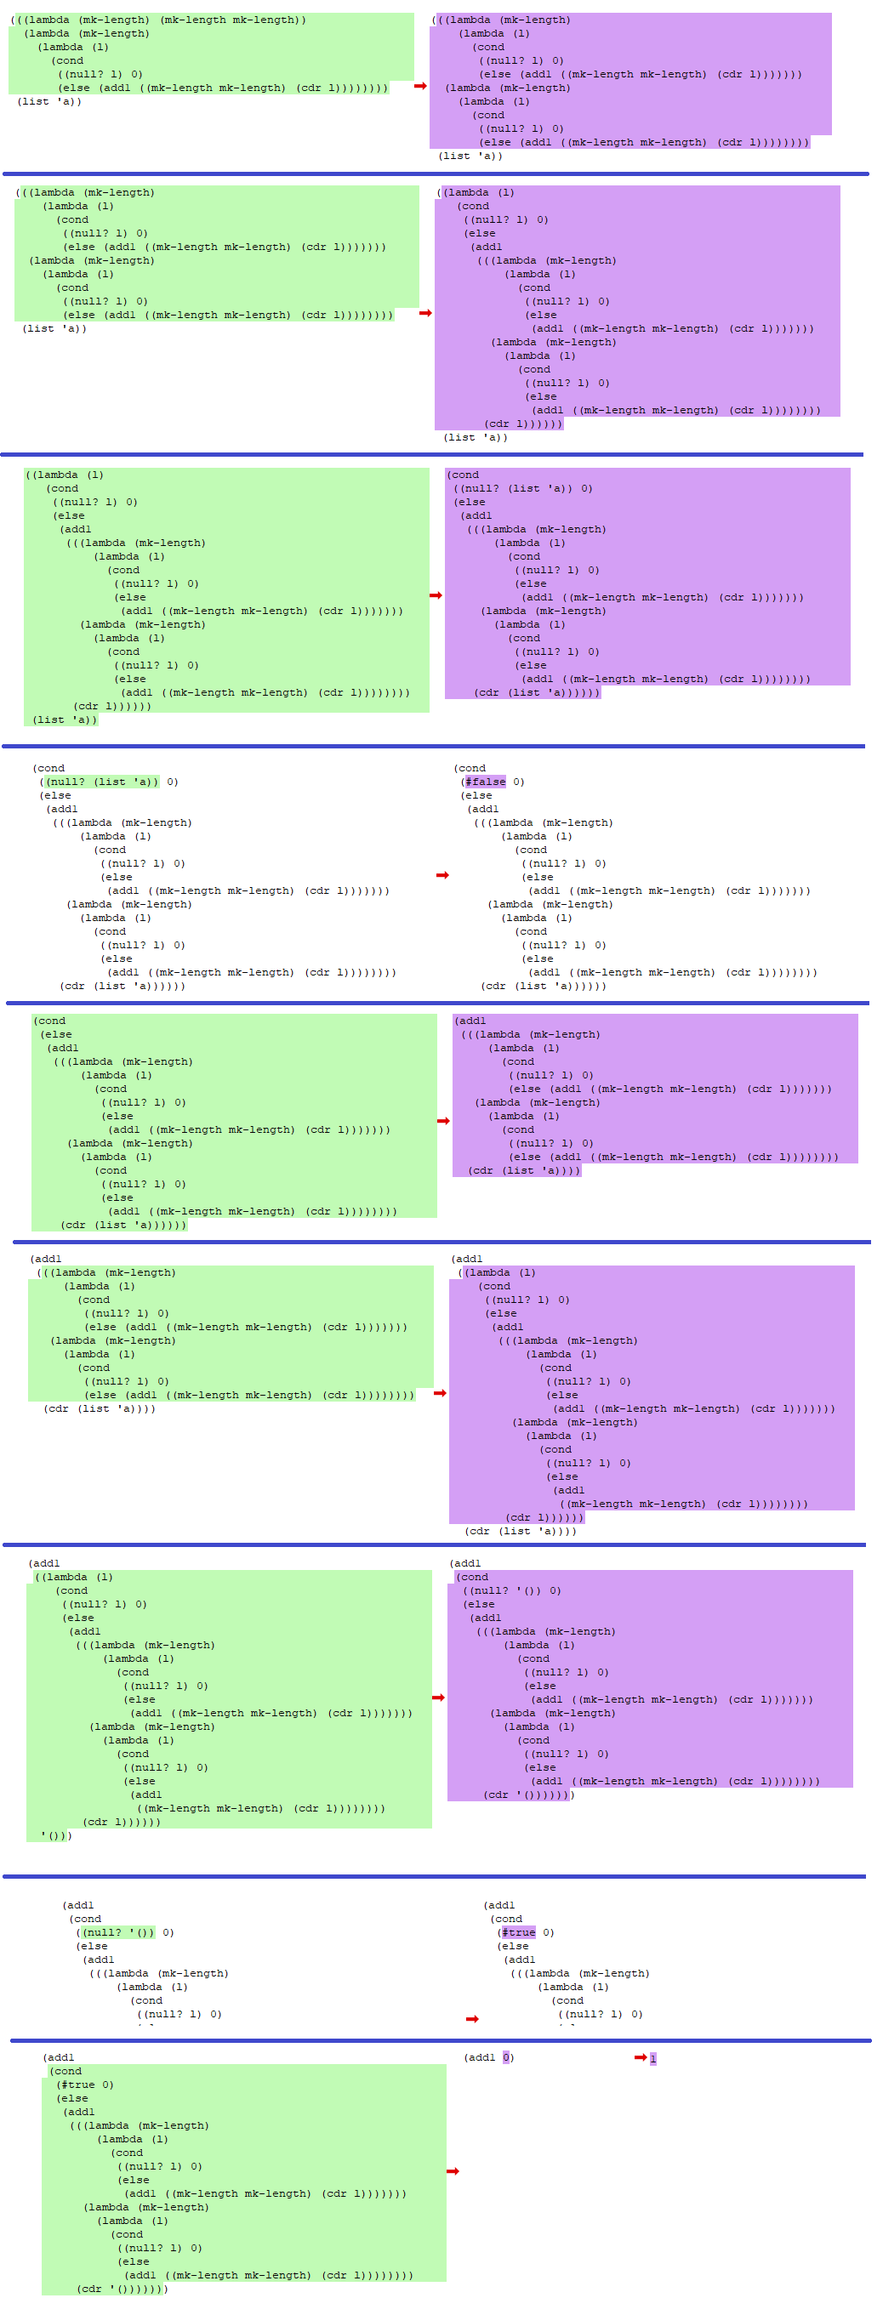
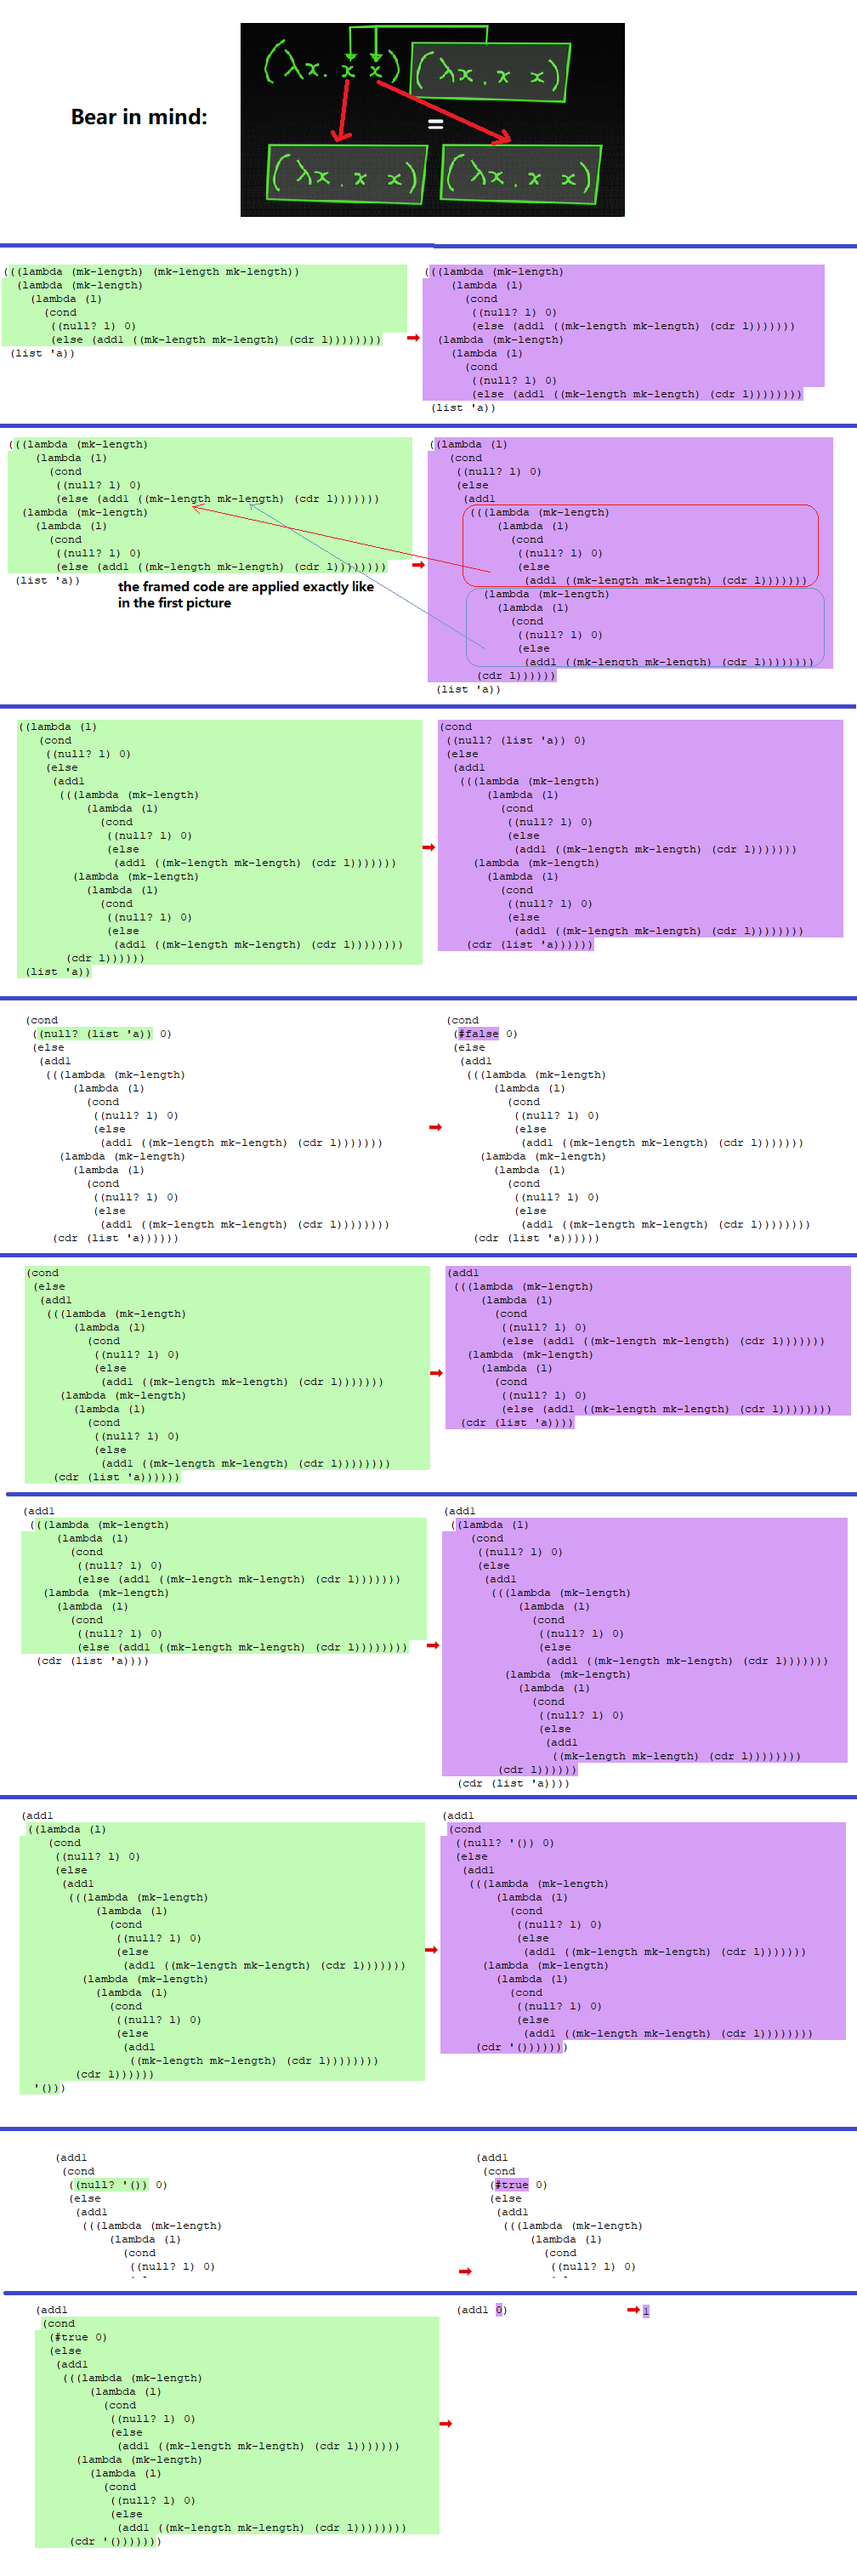
rebuilding site Sun, Feb 23, 2020 11:20:54 PM

diff --git a/content/top/about.md b/content/top/about.md
@@ -3,21 +3,22 @@
 
 Hello beautiful people! Thanks for being interested in finding out about me :).
 
-I am a future poet, next generation Oscar Wilde (or Noël Coward) and comedian with healing power. (Well, we all have dreams right?). But somehow, I am currently doing Ph.D. research in the area of statistical/machine learning and econometrics.  
+I am a future poet, next generation Oscar Wilde (or Noël Coward maybe) and comedian with healing power and so on (well, we all have dreams right?). But somehow, I am currently doing Ph.D. research in the area of statistical/machine learning and econometrics.  
 
 -----
-About my research (referring to some keywords I did not expect when I was a kid):
+This is mainly a tech blog, so it going to be all about my research (referring to some keywords I did not expect when I was a kid):
 
-The key challenge in any complex system learning is **problem identification** , which comes down to various types of causality inference and optimization work. I am particularly experienced in establishing theoretical statistical models and evaluating empirical econometric studies. My years of school equips me to design natural experiments and observational study with features such as time series, stochastic, probabilistic based models, etc.
+I have full background of econ/fin and statistics, both up to master's degrees. These two subjects overlap a lot in learning complex systems, such as financial market, option pricing, or macroeconomic. The key challenge in any complex system learning is **problem identification** , which comes down to various types of causality inference and optimization work. I am particularly experienced in building theoretical statistical models and evaluating empirical econometric studies. Years of school has equipped me to design natural experiments and observational study with applying time series, stochastic, probabilistic based models, etc.
+
 #### Interests in Statistics
 As a statistical researcher, I'm into Bayesian learning and variable selection in classification issues. I used to explore the re-parameterized Bayesian model, such as spike & slab prior. These unusual model comes with good mathematical properties but difficult to evaluate analytically. To conquer the computational limitation, I used MCMC with the Metropolis-Hastings process to recover the asymptotic probability model. In this process, I began to develop interests in high-performance computation. 
 
 #### Interests in Econometrics
 As an economic researcher, my speciality lies in quantitative corporate finance study (a sub-area of financial economics). Based on this interest, I am currently undertaking the study of evaluation algorithms to help make risk-controlled and efficient investment decisions, in medium to big size data. Following this, I hope to establish financial indicators/systems to detect and, most importantly, predict investment/risk alert signals in daily information processing activities, which potentially can be beneficial to government sectors, the central bank, corporate governors, researchers, and other stakeholders.
 
-#### Interests in semantic unit based programming
-My daily text-based workflow is built on Emacs, which requires certain knowledge of Emacs-lisp hacking. The distinct features of semantic unit based programming got me interested.
+#### Interests in bottom-up OS configuration. 
 
+My daily research workflow has a high requirement for working environment. An academic work involves several things at the same time: Latex writing, multi-language programming running, syntax highlighting, embedded slides making. So my workflow is built on Emacs, which requires certain knowledge of Emacs-lisp hacking and functional programming. A highly customerized operating system with some specialized hardware has been my friend all this time.
 -----
 
 #### Publication as Data Scientist

diff --git a/content/post/The-little-schemer-note-3-3.md b/content/post/The-little-schemer-note-3-3.md
@@ -1,6 +1,6 @@
 +++
 title = "The Little Schemer speedy referring note (3/3)"
-lastmod = 2020-02-19T23:07:50+00:00
+lastmod = 2020-02-23T23:19:28+00:00
 categories = ["TECH"]
 draft = false
 image = "img/111.jpg"
@@ -266,10 +266,15 @@ carefully. The difference between defining and calling is that calling a functio
     arguments-for-f)
 {{< /highlight >}}
 
+A more general case of calling with defining in lambda expression is called the
+omega combinator. It has shape in the below picture and more information can be
+found at [Lambda calculus - Wikipedia](https://en.wikipedia.org/wiki/Lambda%5Fcalculus#Standard%5Fterms)
+![](/img/little2.png)
+
 As you read more, you will understand
 the below example is carefully selected: it achieves a simple job at a time; applying
 it on itself is achieving a simple job on a achieved job; when repeating calling itself,
-it can achieve a almost infinite job loop.
+it can achieve a almost infinite loop.
 
 In addition, the function change `(length)` a little by calling `(eternity)`
 instead of `(length)` in its recursion. This makes the function only works on **null input**, since it will terminate in the `(null?)` predicate without calling the partial
@@ -507,10 +512,35 @@ The exercise in page 166 will help you on how it works. The instruction can be
 found in the answer of `soegaard` :
 [scheme - Y combinator discussion in "The Little Schemer" - Stack Overflow](https://stackoverflow.com/questions/10499514/y-combinator-discussion-in-the-little-schemer?noredirect=1&lq=1)
 
-When running it with stepper in DrRacket, there are 13 steps for a case when `l is
-(' a)`, I only demonstrate major steps here
+When running it with stepper in DrRacket, there are 27 steps for a case `(l is
+(' a b c))`, I only demonstrate 4 steps here (press ctrl and + to see the enlarged image)
+
 ![](/img/little.png)
+You can try to play with longer list, such as this:
 
 {{< highlight scheme >}}
-
+(((lambda (mk-length)
+    (mk-length mk-length))
+  (lambda (mk-length)
+    (lambda (l)
+      (cond
+        ((null? l) 0 )
+        (else (add1
+               ((mk-length mk-length)
+                (cdr l))))))))
+ '(a b c))
 {{< /highlight >}}
+
+You would realize that this is just more recurrences of that "bear in mind"
+picture, aka calling `(mk-length mk-length)` one more time before applying a
+shorter candidate list, until the `(cdr l)` runs out of atom. In the end, the null
+list becomes the termination condition, without triggering it, we will go stack overflow by calling
+`(mk-length mk-length)` infinitely.
+
+After undertanding the above code, the author finanlly gets to reform this
+procedure in to Y combinator, a function without defining name and so pithy that
+can be called repetitively by itself as many times as we want.
+
+If you find it confusing, read this preview of omega combinator in the first
+answer of this post:[scheme - Y combinator discussion in "The Little Schemer" -
+Stack Overflow](https://stackoverflow.com/questions/10499514/y-combinator-discussion-in-the-little-schemer/11864862#11864862)

diff --git a/content/post/The-little-schemer-note-2-3.md b/content/post/The-little-schemer-note-2-3.md
@@ -1,7 +1,7 @@
 +++
 title = "The Little Schemer speedy referring note (2/3)"
 date = 2019-12-23T01:35:00+00:00
-lastmod = 2020-02-19T23:07:50+00:00
+lastmod = 2020-02-23T23:19:28+00:00
 categories = ["TECH"]
 draft = false
 image = "img/111.jpg"
@@ -230,19 +230,19 @@ In the previous chapters, we've seen over and over that a function takes **list
 or atom** as input and returns **list or atom** as output. In this chapter, we
 will be learning how to write a function that takes input and returns
 **functions**. Technically, a digit/atom is a function too, which takes itself as
-argument and returns itself. Taking an naive example, the function1 is a
+argument and returns itself. Taking an naive example, the `(eq?-f)` is a
 functional projection which takes `a` (a constant function) as argument and
-returns function2 (equivelent in concept) as output. It's called currying.
+returns `(eq?-a)` (equivelent in concept) as output. It's called currying.
 
 {{< highlight scheme >}}
-(define function1
-(lambda (a)
- lambda (x)
-  (eq? x a)))
+(define eq?-f)
+ (lambda (a)
+   (lambda (x)
+    (eq? x a))))
 
-(define function2
-(lambda (x)
- (eq? x a))
+(define eq?-a
+ (lambda (x)
+  (eq? x a))
 {{< /highlight >}}
 
 But the functional projection is sometimes more confusing when there are
@@ -344,8 +344,10 @@ rewritten as:
 (define subst (insert-g seqS))
 {{< /highlight >}}
 
-The `(rember)` function can be abstracted by `(insert-g)` too, but using variant
-function requires extra tweak, since the `(rember)` doesn't use arguments _new_:
+The `(rember)` function can be achieved by `(insert-g)` too, but it requires
+extra tweak, since the `(rember)` doesn't use arguments _new_. The `(seqrem)`
+function replaces the old seq's job: it neither cons on left nor right, but only
+retains the third argument, aka `(cdr l)`.
 
 {{< highlight scheme >}}
 ;invariant function with seqrem as place holder
@@ -353,11 +355,19 @@ function requires extra tweak, since the `(rember)` doesn't use arguments _new_:
   (lambda (a l)
     ((insert-g seqrem) #f a l)))
 
-;variant function
+(define insert-g
+  (lambda (seq)
+      (lambda (new old l)
+        (cond
+          ((null? l) '())
+          ((eq? (car l) old)
+           (seq new old (cdr l)))
+          (else
+            (cons (car l) ((insert-g seq) new old (cdr l))))))))
+
 (define seqrem
   (lambda (new old l)
     l))
-
 ;(yyy 'sausage '(pizza with sausage and bacon)) -> '(pizza with and bacon)
 {{< /highlight >}}
 

diff --git a/content/post/Hugo blogging with Ox-hugo.md b/content/post/Hugo blogging with Ox-hugo.md
@@ -2,7 +2,7 @@
 title = "Hugo blogging with Ox-hugo 【用 ox-hugo 在 Emacs 中搭建网站流】"
 summary = "My personal experience of blogging with Emacs/Spacemacs and plug-in ox-hugo, along with some explanation of Hugo's working structure."
 date = 2019-07-16T01:03:00+01:00
-lastmod = 2020-02-19T23:07:47+00:00
+lastmod = 2020-02-23T23:19:26+00:00
 tags = ["Hugo", "Ox-hugo"]
 categories = ["TECH"]
 draft = false

diff --git a/content/post/org-reveal-solution-for-math-and-code-highlighting-in-presentation-slide.md b/content/post/org-reveal-solution-for-math-and-code-highlighting-in-presentation-slide.md
@@ -2,7 +2,7 @@
 title = "Org-reveal: solution for math and code highlighting in presentation slide 【在 ppt 中展示代码高亮，数学公式的优秀解决方案】"
 summary = "Learning notes and trouble shooting for using org-reveal."
 date = 2019-08-23T22:50:00+01:00
-lastmod = 2020-02-19T23:07:47+00:00
+lastmod = 2020-02-23T23:19:26+00:00
 tags = ["Emacs", "Org-mode"]
 categories = ["TECH"]
 draft = false

diff --git a/content/post/Hugo Blogging with Wercker Auto Build & Deployment.md b/content/post/Hugo Blogging with Wercker Auto Build & Deployment.md
@@ -2,7 +2,7 @@
 title = "Hugo Blogging with Wercker Auto Build & Deployment 【用 Wercker 自动部署网站】"
 summary = "Using Wercker to for automated website code build and deployment"
 date = 2019-07-26T01:02:00+01:00
-lastmod = 2020-02-19T23:07:47+00:00
+lastmod = 2020-02-23T23:19:26+00:00
 tags = ["Hugo", "Git", "Wercker", "Org-mode", "Emacs"]
 categories = ["TECH"]
 draft = false

diff --git a/content/post/Best workaround to use Emacs in MS Windows.md b/content/post/Best workaround to use Emacs in MS Windows.md
@@ -2,7 +2,7 @@
 title = "Best workaround to use Emacs in MS Windows 【在 MS windows 中使用 Emacs 的最佳解决方案】"
 summary = "Experience Emacs with best workaround environment in windows."
 date = 2019-08-16T01:03:00+01:00
-lastmod = 2020-02-19T23:07:47+00:00
+lastmod = 2020-02-23T23:19:26+00:00
 tags = ["Emasc", "Msys2", "Windows10"]
 categories = ["TECH"]
 draft = false

diff --git a/content/post/emacs-line-truncation-in-text-editing-mode.md b/content/post/emacs-line-truncation-in-text-editing-mode.md
@@ -2,7 +2,7 @@
 title = "Overview: Emacs line truncation in text editing 【Emacs org 换行/对齐/排版  汇总指南】"
 summary = "Line visualization and navigation settings in Emacs text editing."
 date = 2019-09-17T12:53:00+01:00
-lastmod = 2020-02-19T23:07:48+00:00
+lastmod = 2020-02-23T23:19:27+00:00
 tags = ["Emacs", "Org-mode"]
 categories = ["TECH"]
 draft = false

diff --git a/content/post/using-aspell-in-windows-10-and-emacs-26-above.md b/content/post/using-aspell-in-windows-10-and-emacs-26-above.md
@@ -2,7 +2,7 @@
 title = "Using aspell in windows 10 and Emacs 26 above 【拼写检查 Emacs26 使用更新版 aspell】"
 summary = "Installing aspell for Emacs 26+ in windows system."
 date = 2019-09-13T01:34:00+01:00
-lastmod = 2020-02-19T23:07:48+00:00
+lastmod = 2020-02-23T23:19:26+00:00
 tags = ["Emacs", "Spacemacs", "Windows10"]
 categories = ["TECH"]
 draft = false

diff --git a/content/post/source-code-pro-in-ubuntu-mswindows.md b/content/post/source-code-pro-in-ubuntu-mswindows.md
@@ -2,7 +2,7 @@
 title = "Installing Source Code Pro in Ubuntu and MS Windows platform 2019 【2019 版 Source Code Pro 字体安装指南】"
 summary = "Installing source code pro and trouble shooting."
 date = 2019-09-03T21:53:00+01:00
-lastmod = 2020-02-19T23:07:48+00:00
+lastmod = 2020-02-23T23:19:26+00:00
 tags = ["Ubuntu"]
 categories = ["TECH"]
 draft = false

diff --git a/content/post/using-anki-editor-to-build-flashcard-in-org-mode.md b/content/post/using-anki-editor-to-build-flashcard-in-org-mode.md
@@ -1,7 +1,7 @@
 +++
 title = "Using Anki-editor to build flashcard in Org-mode 【用 Anki-editor 在 org-mode 中生成复杂记忆卡片】"
 date = 2019-09-30T23:54:00+01:00
-lastmod = 2020-02-19T23:07:48+00:00
+lastmod = 2020-02-23T23:19:27+00:00
 tags = ["windows", "org-mode", "Anki"]
 categories = ["TECH"]
 draft = false

diff --git a/content/post/mastering-emacs-in-21-days-learning-notes-day.md b/content/post/mastering-emacs-in-21-days-learning-notes-day.md
@@ -2,7 +2,7 @@
 title = "Mastering emacs in 21 days learning notes - 1 【21 天学会 Emacs 笔记 - 1】"
 summary = "Learning notes about Emacs."
 date = 2019-08-25T23:51:00+01:00
-lastmod = 2020-02-19T23:07:48+00:00
+lastmod = 2020-02-23T23:19:26+00:00
 tags = ["Emacs"]
 categories = ["TECH"]
 draft = false
